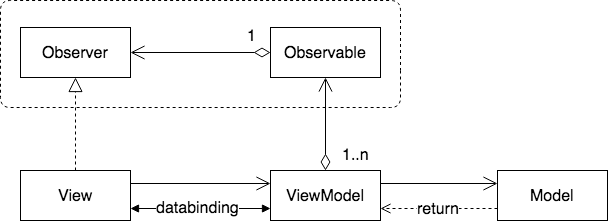
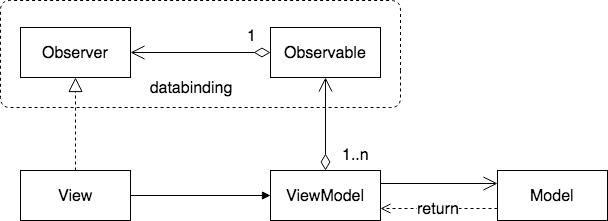
added widget to readme updated mvvm uml

Changed region(s): [[0.2188, 0.8145, 0.4688, 0.8959], [0.2188, 0.9231, 0.4375, 0.9774], [0.25, 0.3529, 0.4062, 0.4344]]

diff --git a/README.md b/README.md
@@ -14,6 +14,8 @@ So, be carefull, this is a WORK IN PROGRESS...
         * [Serial](#swift:-Serial-work)
         * [Parallel](#swift:-Parallel-work)
     2. [MVVM](#mvvm)
+        * [View-Model](#Swift:-Observer)
+        * [Widget](#Swift:-Reusing-View-Model-in-TodayExtension)
 5. [Testing](#testing)
 
 ## Before start
@@ -234,10 +236,10 @@ class Weather:WeatherProtocol {
 ```
 
 * Usefull links:
-    * [Serial promises: places component](https://github.com/albertopeam/clean-architecture/blob/master/iOS/CleanArchitecture/core/places/Places.swift)
-    * [Parallel promises: weather component](https://github.com/albertopeam/clean-architecture/blob/master/iOS/CleanArchitecture/core/weather/Weather.swift)
-    * [How to test: places component](https://github.com/albertopeam/clean-architecture/blob/master/iOS/CleanArchitectureTests/core/places/PlacesTest.swift)
-
+    * [Code: Serial promises](https://github.com/albertopeam/clean-architecture/blob/master/iOS/CleanArchitecture/core/places/Places.swift)
+    * [Code: Parallel promises](https://github.com/albertopeam/clean-architecture/blob/master/iOS/CleanArchitecture/core/weather/Weather.swift)
+    * [Test: UseCase](https://github.com/albertopeam/clean-architecture/blob/master/iOS/CleanArchitectureTests/core/places/PlacesTest.swift)
+    * [Test: Worker](https://github.com/albertopeam/clean-architecture/blob/master/iOS/CleanArchitectureTests/core/places/PlacesWorkerTest.swift)
 
 | *PROS* | *CONS* | 
 | :---         | :---           | 
@@ -386,10 +388,42 @@ class UVIndexViewController: UIViewController {
 
 ```
 
+#### Swift: Reusing View-Model in TodayExtension
+```swift
+class TodayViewController: UIViewController {
+        
+    @IBOutlet weak var ultravioletIndexLabel: UILabel!    
+    var viewModel:UVIndexViewModel?
+    var completion:Completion?
+    
+    ...
+    
+    override func viewDidLoad() {
+        super.viewDidLoad()        
+        bind()
+    }
+    
+    private func bind(){        
+        viewModel?.uvIndexObservable.bind { [weak self] (newValue) in
+            self?.ultravioletIndexLabel?.text = newValue
+            self?.completion?(NCUpdateResult.newData)
+        }      
+    }    
+}
+
+extension TodayViewController:NCWidgetProviding{
+    func widgetPerformUpdate(completionHandler: (@escaping (NCUpdateResult) -> Void)) {
+        viewModel?.loadUVIndex()
+        completion = completionHandler
+    }
+}
+```
+
 * Useful links:
   
     * [Code: View Controller](https://github.com/albertopeam/clean-architecture/blob/master/iOS/CleanArchitecture/app/uvindex/UVIndexViewController.swift)
     * [Code: View Model](https://github.com/albertopeam/clean-architecture/blob/master/iOS/CleanArchitecture/app/uvindex/UVIndexViewModel.swift)
+    * [Code: Widget](https://github.com/albertopeam/clean-architecture/blob/master/iOS/UltravioletIndexWidget/TodayViewController.swift)
     * [Testing: View Model](https://github.com/albertopeam/clean-architecture/blob/master/iOS/CleanArchitectureTests/app/uvindex/UVIndexViewModelTest.swift)
     * [Testing: View Controller](https://github.com/albertopeam/clean-architecture/blob/master/iOS/CleanArchitectureUITests/app/uvindex/UVIndexViewControllerTest.swift)
  
@@ -399,7 +433,8 @@ class UVIndexViewController: UIViewController {
 | Decouple model and view | It can be an problem if the view-model has tons of properties |
 | Decouple presentation logic from the view |  |
 | Respect single responsability principle |  |
-| Simplified view, very dumb one | |
+| Simplified view, it only does UI operations | |
+| Reusability of the view-model in other views | |
 
 * UML
 
